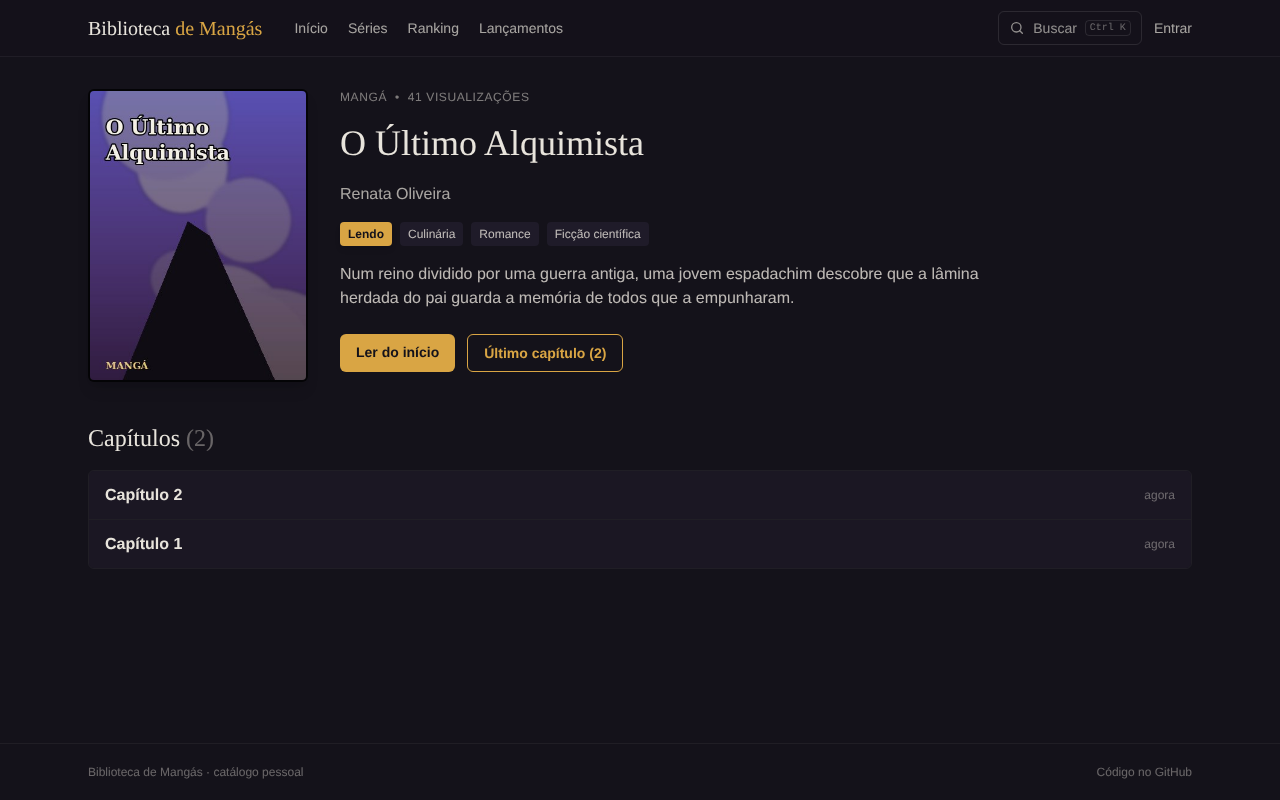
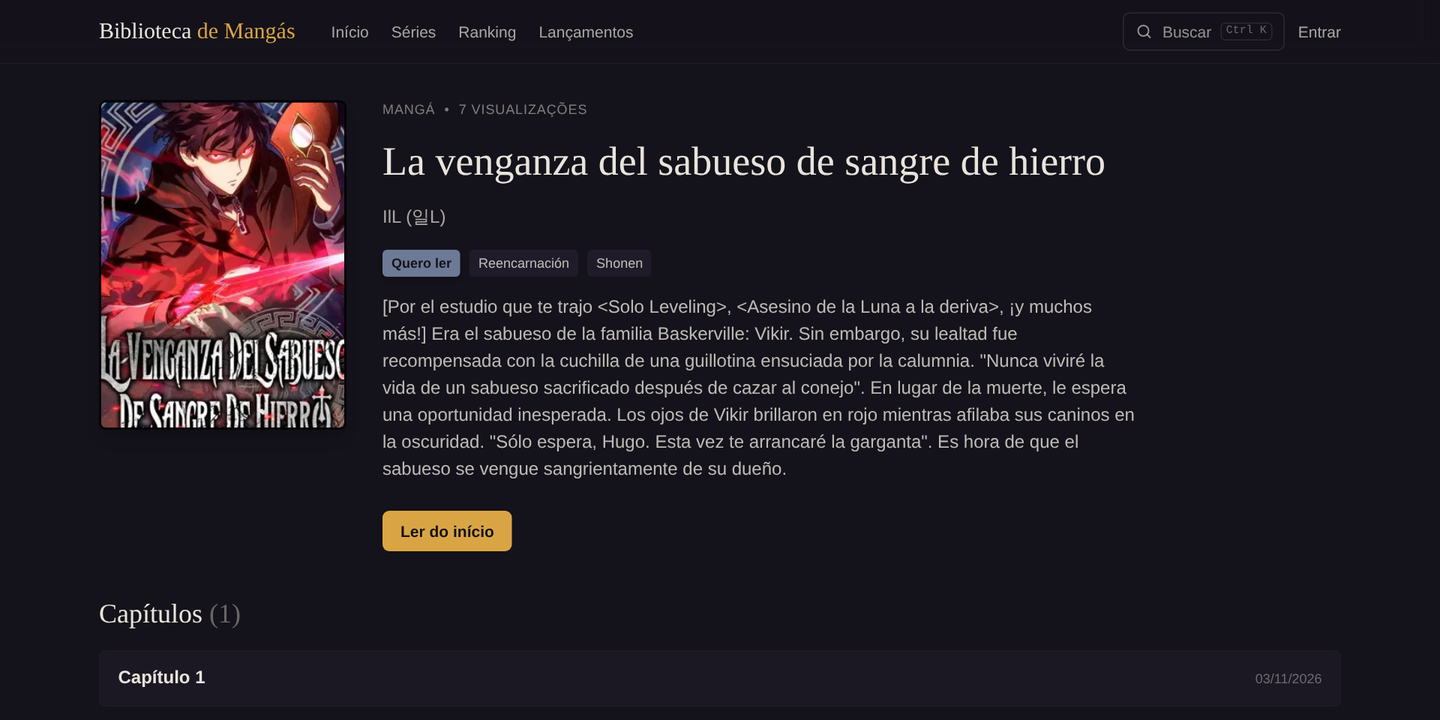
docs: troca as capturas de tela pelas do projeto real
- Prints tirados com os mangás e capas cadastrados de verdade
- Novas capturas do ranking e da área do administrador
- Capturas organizadas em tabela, com nota sobre os direitos das capas

diff --git a/README.md b/README.md
@@ -55,17 +55,22 @@ O objetivo é praticar o desenvolvimento de uma aplicação completa, do banco d
 
 ## 📸 Capturas de tela
 
-> Dados e capas fictícios, criados só para as demonstrações.
+<table>
+  <tr>
+    <td width="50%"><b>Catálogo com busca e filtros</b><br /><img src="docs/screenshots/catalogo.png" alt="Catálogo de séries com busca, filtros de gênero, status e tipo e ordenação" /></td>
+    <td width="50%"><b>Página do mangá</b><br /><img src="docs/screenshots/manga.png" alt="Página de um mangá com capa, gêneros, sinopse e lista de capítulos" /></td>
+  </tr>
+  <tr>
+    <td><b>Busca rápida (Ctrl+K)</b><br /><img src="docs/screenshots/busca-rapida.png" alt="Janela de busca rápida com resultados enquanto se digita" /></td>
+    <td><b>Ranking das séries mais vistas</b><br /><img src="docs/screenshots/ranking.png" alt="Ranking com posição, capa, gêneros e visualizações" /></td>
+  </tr>
+  <tr>
+    <td><b>Área do administrador: capa enviada do computador</b><br /><img src="docs/screenshots/cadastro.png" alt="Formulário de edição do mangá com a capa escolhida do computador e pré-visualização" /></td>
+    <td align="center"><b>No celular</b><br /><img src="docs/screenshots/celular.png" alt="Página inicial no celular" width="150" /></td>
+  </tr>
+</table>
 
-| Catálogo com filtros | Página do mangá |
-|---|---|
-| <img src="docs/screenshots/catalogo.png" alt="Catálogo de séries filtrado por gênero" /> | <img src="docs/screenshots/manga.png" alt="Página de um mangá com sinopse e lista de capítulos" /> |
-| **Leitor de capítulos** | **Busca rápida (Ctrl+K)** |
-| <img src="docs/screenshots/leitor.png" alt="Leitor com páginas em rolagem vertical" /> | <img src="docs/screenshots/busca-rapida.png" alt="Janela de busca rápida com resultados" /> |
-
-<p align="center">
-  <img src="docs/screenshots/celular.png" alt="Página inicial no celular" width="260" />
-</p>
+<sub>As capas que aparecem nas imagens pertencem aos respectivos autores e editoras e foram usadas apenas para demonstrar a interface.</sub>
 
 ## 🛠 Tecnologias utilizadas
 
